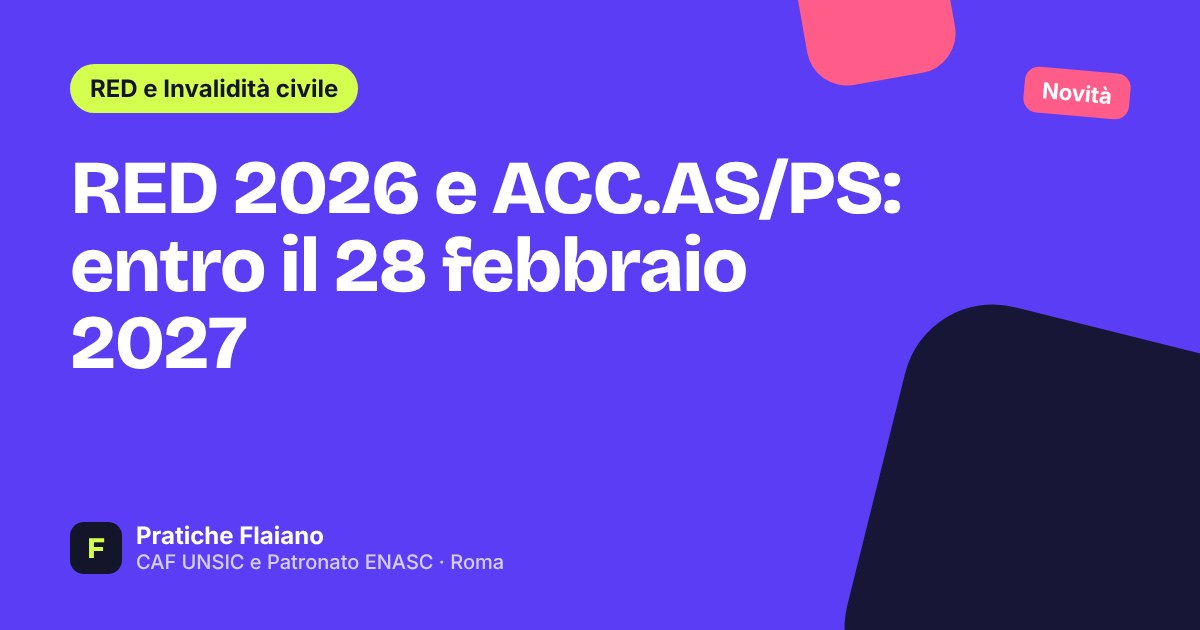
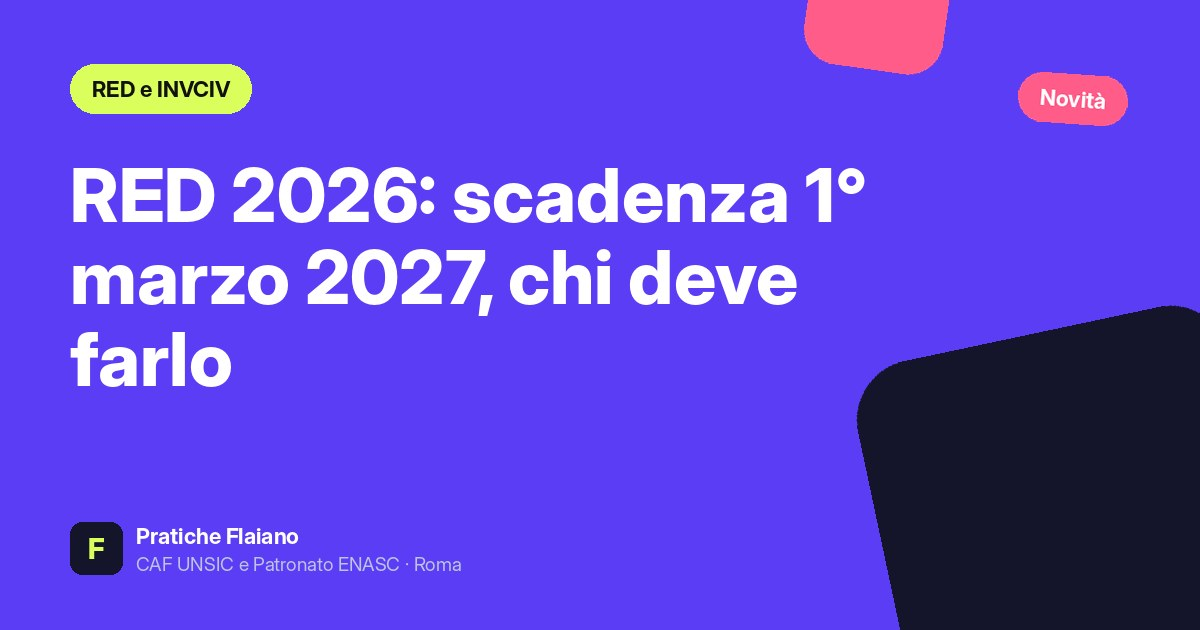
Blog: RED 2026 scadenza 1 marzo 2027 (messaggio INPS 3697), note sulle scadenze passate, correzione EBIT
Claude-Session: https://claude.ai/code/session_0196GTvN5mPCjeJurPh7tVQp

diff --git a/content/red-invciv-accas/2026-11-10-red-2026-scadenza-28-febbraio-2027-messaggio-inps-3568.md b/content/red-invciv-accas/2026-11-10-red-2026-scadenza-28-febbraio-2027-messaggio-inps-3568.md
@@ -1,14 +1,15 @@
 ---
-title: "Modello RED 2026 e dichiarazione ACC.AS/PS: chi deve farli, come ed entro quando (28 febbraio 2027)"
-seo_title: "RED 2026: scadenza 28 febbraio 2027, chi deve farlo"
+title: "Modello RED 2026 e dichiarazione ACC.AS/PS: chi deve farli, come ed entro quando (1° marzo 2027)"
+seo_title: "RED 2026: scadenza 1° marzo 2027, chi deve farlo"
 slug: "red-2026-scadenza-28-febbraio-2027-messaggio-inps-3568"
 date: 2026-11-10
-last_updated: 2026-11-10
+last_updated: 2026-11-13
 category: "red-invciv-accas"
 tags: ["inps", "pensionati", "red", "assegno sociale", "caf", "novita"]
-meta_description: "Messaggio INPS 3568/2026: RED sui redditi 2025 e ACC.AS/PS entro il 28 febbraio 2027. Chi deve farli, documenti, ricoveri e rischi. Ti aiutiamo a Roma."
+meta_description: "Messaggi INPS 3568 e 3697 del 2026: RED sui redditi 2025 e ACC.AS/PS entro il 1° marzo 2027. Chi deve farli, documenti, ricoveri e rischi. Ti aiutiamo a Roma."
 author: "Redazione Centro Pratiche Flaiano"
 sources:
+  - "INPS, Messaggio 12 novembre 2026, n. 3697 (campagna RED ordinaria 2026 sui redditi 2025 e dichiarazioni di responsabilita 2026, scadenza 1 marzo 2027) - https://www.inps.it/it/it/inps-comunica/atti/circolari-messaggi-e-normativa/dettaglio.circolari-e-messaggi.2026.11.messaggio-numero-3697-del-12-11-2026_16418.html"
   - "INPS, Messaggio 3 novembre 2026, n. 3568 - https://www.inps.it/it/it/inps-comunica/atti/circolari-messaggi-e-normativa/dettaglio.circolari-e-messaggi.2026.11.messaggio-numero-3568-del-03-11-2026_16406.html"
   - "INPS, Allegato 1 al messaggio 3568/2026: schema di convenzione con i soggetti abilitati all'assistenza fiscale (deliberazione CdA n. 116 del 15 luglio 2026), artt. 3, 4, 5, 13"
   - "INPS, Allegato 2 al messaggio 3568/2026: Addendum sui compensi (deliberazione CdA n. 162 del 28 ottobre 2026)"
@@ -22,12 +23,14 @@ sources:
 status: published
 type: novita
 image: "/og/red-2026-scadenza-28-febbraio-2027-messaggio-inps-3568.jpg"
-image_alt: "Modello RED 2026: scadenza 28 febbraio 2027"
+image_alt: "Modello RED 2026: scadenza 1 marzo 2027"
 ---
 
-# Modello RED 2026 e dichiarazione ACC.AS/PS: chi deve farli, come ed entro quando (28 febbraio 2027)
+# Modello RED 2026 e dichiarazione ACC.AS/PS: chi deve farli, come ed entro quando (1° marzo 2027)
 
-**Ultimo aggiornamento: 10 novembre 2026**
+**Ultimo aggiornamento: 13 novembre 2026**
+
+**Aggiornamento del 13 novembre 2026:** con il **messaggio INPS n. 3697 del 12 novembre 2026** l'INPS ha indicato come termine della campagna RED ordinaria 2026 (redditi 2025) e delle dichiarazioni di responsabilità 2026 (ACC.AS/PS) il **1° marzo 2027**. Nella prima versione di questo articolo, basata sul messaggio 3568 del 3 novembre, avevamo scritto 28 febbraio 2027: il 28 febbraio 2027 cade di domenica e il nuovo messaggio indica lunedì 1° marzo 2027. Il resto dell'articolo resta valido.
 
 Con il **messaggio n. 3568 del 3 novembre 2026** l'INPS ha fissato le regole delle prossime campagne di verifica: il **modello RED** sui redditi del 2025 e del 2026 e la **dichiarazione di responsabilità ACC.AS/PS** per chi prende l'assegno sociale. Il messaggio riguarda soprattutto i CAF, che possono firmare la convenzione con l'INPS. Dentro però ci sono le date e le regole che servono a te, se prendi una pensione o una prestazione legata al reddito.
 
@@ -35,9 +38,9 @@ Con il **messaggio n. 3568 del 3 novembre 2026** l'INPS ha fissato le regole del
 
 | Cosa | Chi | Entro |
 |---|---|---|
-| **RED 2026** (redditi 2025) | Chi ha prestazioni legate al reddito e non ha dichiarato tutto al Fisco | **28 febbraio 2027** |
-| **ACC.AS/PS 2026** | Chi prende pensione sociale, assegno sociale o assegno sociale sostitutivo dell'invalidità civile | **28 febbraio 2027** |
-| **RED solleciti 2025** (redditi 2024) | Chi non ha risposto alla verifica dell'anno scorso | **28 febbraio 2027** |
+| **RED 2026** (redditi 2025) | Chi ha prestazioni legate al reddito e non ha dichiarato tutto al Fisco | **1° marzo 2027** |
+| **ACC.AS/PS 2026** | Chi prende pensione sociale, assegno sociale o assegno sociale sostitutivo dell'invalidità civile | **1° marzo 2027** |
+| **RED solleciti 2025** (redditi 2024) | Chi non ha risposto alla verifica dell'anno scorso | **28 febbraio 2027** (indicato dal messaggio 3568; nel testo del messaggio 3697 che abbiamo consultato i solleciti non compaiono. Chiedici conferma sulla tua lettera) |
 
 Le prime due campagne sono partite il **1° settembre 2026**; la data di avvio dei solleciti la comunica l'INPS almeno 15 giorni prima.
 
@@ -71,7 +74,7 @@ Le famiglie che nell'ultima verifica avevano **tutti i redditi a zero** sono ind
 
 La dichiarazione di responsabilità **ACC.AS/PS** riguarda solo chi prende la **pensione sociale**, l'**assegno sociale** o l'**assegno sociale sostitutivo dell'invalidità civile**. Serve a confermare che **vivi stabilmente in Italia**, uno dei requisiti per avere queste prestazioni (legge 335/1995, art. 3). Per il tempo in cui il titolare vive all'estero la prestazione non spetta.
 
-Anche questa campagna va dal **1° settembre 2026 al 28 febbraio 2027**.
+Anche questa campagna va dal **1° settembre 2026 al 1° marzo 2027**.
 
 Le dichiarazioni **ICRIC e ICLAV** degli invalidi civili non rientrano in questo messaggio e non si possono presentare tramite CAF: si fanno online o con il Contact Center INPS. Le trovi spiegate nella nostra [guida a RED, ICRIC, ICLAV e ACC.AS/PS](/blog/red-icric-iclav-accas-ps-2026-guida).
 
@@ -170,7 +173,7 @@ Siamo **CAF UNSIC** e **Patronato ENASC** a **Roma Nord**, nel Centro Acquisti F
 
 Siamo **CAF convenzionato con l'INPS** per il RED e l'ACC.AS/PS. Guardiamo insieme a te la lettera dell'INPS, verifichiamo se il RED serve davvero o se i tuoi redditi sono già tutti nel 730, e se serve lo trasmettiamo noi oppure lo facciamo online insieme a te con il tuo SPID o la tua CIE. Se ti è già arrivata una trattenuta o una sospensione, controlliamo come rimettere a posto la posizione.
 
-## Non aspettare febbraio: portaci la lettera INPS
+## Non aspettare l'ultimo giorno: portaci la lettera INPS
 
 - **Prenota:** [in ufficio o in videochiamata](/prenota)
 - **Richiesta online:** [mandaci la lettera INPS](/richiesta)
@@ -179,7 +182,7 @@ Siamo **CAF convenzionato con l'INPS** per il RED e l'ACC.AS/PS. Guardiamo insie
 ## Domande frequenti
 
 **Entro quando va presentato il RED 2026?**
-La campagna ordinaria sui redditi 2025 va dal 1° settembre 2026 al 28 febbraio 2027. Meglio non aspettare l'ultimo giorno: il CAF ha poi fino a 30 giorni per trasmetterlo.
+La campagna ordinaria sui redditi 2025 va dal 1° settembre 2026 al 1° marzo 2027 (messaggio INPS 3697/2026). Meglio non aspettare l'ultimo giorno: il CAF ha poi fino a 30 giorni per trasmetterlo.
 
 **Ho fatto il 730: devo fare anche il RED?**
 No, se tu e i familiari che contano avete dichiarato nel 730 tutti i redditi che servono all'INPS. Se però hai interessi su conti, titoli o buoni postali, redditi esteri o redditi esenti non presenti nel 730, il RED serve.
@@ -194,7 +197,7 @@ Dipende dalla prestazione. Per l'accompagnamento contano i ricoveri gratuiti di 
 La dichiarazione ACC.AS/PS, che conferma che vivi stabilmente in Italia. Se hai anche redditi da comunicare, pure il RED.
 
 **Mi è arrivato un sollecito: cosa faccio?**
-Il sollecito riguarda la verifica dell'anno prima (redditi 2024 per i solleciti 2025). Vanno dichiarati tutti i redditi tuoi e dei familiari richiesti, entro il 28 febbraio 2027. Portaci la lettera e lo facciamo subito.
+Il sollecito riguarda la verifica dell'anno prima (redditi 2024 per i solleciti 2025). Vanno dichiarati tutti i redditi tuoi e dei familiari richiesti, entro la data indicata nella lettera (il messaggio 3568 parlava del 28 febbraio 2027). Portaci la lettera e lo facciamo subito.
 
 **La mia famiglia ha tutti i redditi a zero: posso farlo al CAF?**
 Se l'INPS ti ha inserito tra i nuclei con tutti i redditi a zero nell'ultima verifica, no: la dichiarazione si fa solo online o in una sede INPS. Ti aiutiamo comunque a farla online.

diff --git a/content/red-invciv-accas/2026-11-08-red-icric-iclav-accas-ps-2026-guida.md b/content/red-invciv-accas/2026-11-08-red-icric-iclav-accas-ps-2026-guida.md
@@ -3,7 +3,7 @@ title: "Modello RED, ICRIC, ICLAV e ACC.AS/PS: chi deve farli e cosa rischi se l
 seo_title: "Modello RED, ICRIC, ICLAV e ACC.AS/PS: guida 2026"
 slug: "red-icric-iclav-accas-ps-2026-guida"
 date: 2026-11-08
-last_updated: 2026-11-10
+last_updated: 2026-11-13
 category: "red-invciv-accas"
 tags: ["inps", "pensionati", "disabilita", "patronato", "guida"]
 meta_description: "Campagna RED 2026 sui redditi 2025 e dichiarazioni ICRIC, ICLAV, ACC.AS/PS per invalidi civili: chi deve farle, documenti e rischi. Le inviamo noi a Roma."
@@ -13,6 +13,7 @@ sources:
   - "D.L. 30 dicembre 2008, n. 207, art. 35, comma 10-bis (sospensione e revoca delle prestazioni in caso di mancata comunicazione dei redditi)"
   - "Legge 23 dicembre 1996, n. 662, art. 1, commi 248-249 e 254 (dichiarazioni annuali degli invalidi civili; certificato per disabilità intellettive e psichiche)"
   - "CGIL Roma e Lazio, Pensioni RED: sospensione e scadenza 15 settembre 2026 - https://lazio.cgil.it/2026/08/sospensione-pensioni-red-scadenza-15-settembre-2026/"
+  - "INPS, Messaggio 12 novembre 2026, n. 3697 (scadenza 1 marzo 2027) - https://www.inps.it/it/it/inps-comunica/atti/circolari-messaggi-e-normativa/dettaglio.circolari-e-messaggi.2026.11.messaggio-numero-3697-del-12-11-2026_16418.html"
   - "INPS, Messaggio 3 novembre 2026, n. 3568 e convenzione allegata (campagne RED e DICH. RESP. 2026-2027)"
   - "HandyLex, Le dichiarazioni periodiche per gli invalidi civili - https://handylex.org/le-dichiarazioni-periodiche-per-gli-invalidi-civili/"
 status: published
@@ -23,7 +24,7 @@ image_alt: "Modello RED, ICRIC, ICLAV e ACC.AS/PS"
 
 # Modello RED, ICRIC, ICLAV e ACC.AS/PS: chi deve farli e cosa rischi se li salti
 
-**Ultimo aggiornamento: 10 novembre 2026**
+**Ultimo aggiornamento: 13 novembre 2026**
 
 Se prendi una **pensione legata al reddito** (integrazione al minimo, maggiorazioni, quattordicesima, assegno sociale, pensione ai superstiti) o una **prestazione di invalidità civile**, ogni anno l'INPS può chiederti di confermare i tuoi redditi e la tua situazione. Lo fai con il **modello RED** e, per gli invalidi civili, con le dichiarazioni **ICRIC, ICLAV e ACC.AS/PS**.
 
@@ -47,7 +48,7 @@ L'INPS ha avviato la **Campagna RED 2026**, che riguarda i **redditi del 2025** 
 - **non serve** il RED se tu e i tuoi familiari avete già dichiarato **tutti** i redditi nel **730** o nel **modello Redditi**;
 - vanno dichiarati soprattutto i redditi che **non passano dal 730**: interessi di conti, titoli di Stato e buoni postali, redditi da lavoro all'estero, alcuni redditi esenti.
 
-La campagna va dal **1° settembre 2026 al 28 febbraio 2027** (messaggio INPS 3568/2026, [qui tutti i dettagli](/blog/red-2026-scadenza-28-febbraio-2027-messaggio-inps-3568)). Ti conviene muoverti presto: se l'INPS ti ha già scritto, la richiesta la trovi anche nella tua area **MyINPS**.
+La campagna va dal **1° settembre 2026 al 1° marzo 2027** (messaggi INPS 3568 del 3 novembre e 3697 del 12 novembre 2026, [qui tutti i dettagli](/blog/red-2026-scadenza-28-febbraio-2027-messaggio-inps-3568)). Ti conviene muoverti presto: se l'INPS ti ha già scritto, la richiesta la trovi anche nella tua area **MyINPS**.
 
 ### Cosa succede se non rispondi: l'esempio dei redditi 2022
 
@@ -67,7 +68,7 @@ Riguarda chi prende l'**assegno mensile di invalidità** (invalidità parziale).
 
 ### ACC.AS/PS: assegno e pensione sociale
 
-Riguarda chi prende la **pensione sociale**, l'**assegno sociale** o l'**assegno sociale sostitutivo dell'invalidità civile** (quello che arriva dopo i 67 anni al posto della prestazione di invalidità). Serve a confermare che **vivi stabilmente in Italia**. La campagna 2026 va dal **1° settembre 2026 al 28 febbraio 2027** (messaggio INPS 3568/2026).
+Riguarda chi prende la **pensione sociale**, l'**assegno sociale** o l'**assegno sociale sostitutivo dell'invalidità civile** (quello che arriva dopo i 67 anni al posto della prestazione di invalidità). Serve a confermare che **vivi stabilmente in Italia**. La campagna 2026 va dal **1° settembre 2026 al 1° marzo 2027** (messaggi INPS 3568/2026 e 3697/2026).
 
 ### Chi non deve presentarle
 
@@ -125,7 +126,7 @@ Sì, online sul sito INPS con SPID, CIE o CNS. Se preferisci, RED e ACC.AS/PS li
 ## Articoli correlati
 
 - [Invalidità civile e Legge 104: come funziona da noi](/invalidita-104)
-- [RED 2026: scadenza 28 febbraio 2027 e cosa dice il messaggio INPS 3568](/blog/red-2026-scadenza-28-febbraio-2027-messaggio-inps-3568)
+- [RED 2026: scadenza 1° marzo 2027 e cosa dicono i messaggi INPS 3568 e 3697](/blog/red-2026-scadenza-28-febbraio-2027-messaggio-inps-3568)
 - [Servizi di patronato](/servizi/patronato)
 - [ISEE 2027: quando rinnovarlo e documenti](/blog/isee-2027-documenti-quando-rinnovare-roma)
 

diff --git a/content/bonus-fiscali/2026-11-13-ebit-lazio-welfare-2026-rimborsi-libri-tasse-universitarie-trasporti.md b/content/bonus-fiscali/2026-11-13-ebit-lazio-welfare-2026-rimborsi-libri-tasse-universitarie-trasporti.md
@@ -143,7 +143,7 @@ I file vanno caricati **in PDF e leggibili**. Se EBIT chiede integrazioni, hai *
 
 - La domanda si invia **solo online**, dall'area riservata di ebitlazio.it. Non si mandano documenti per email.
 - Il rimborso arriva di norma **entro 40 giorni** dalla scadenza (60 giorni per cultura, spese funerarie e malattia).
-- Il rimborso è **soggetto a IRPEF**: EBIT Lazio lo aumenta della ritenuta calcolata con l'aliquota del primo scaglione.
+- Il rimborso di **libri e tasse universitarie** è **soggetto a IRPEF**: EBIT Lazio lo aumenta della ritenuta calcolata con l'aliquota del primo scaglione, trattiene l'imposta e rilascia la Certificazione Unica. Per le altre prestazioni controlla il regolamento.
 
 ## Come ti aiuta il Centro Pratiche Flaiano
 
@@ -180,7 +180,7 @@ Entro 30 giorni dall'ultimo pagamento e comunque non oltre il 31 ottobre. Per il
 Non è obbligatorio, ma se i fondi non bastano viene pagato prima chi ha l'ISEE più basso. Senza ISEE si passa in fondo.
 
 **Il rimborso è tassato?**
-Sì, è soggetto a IRPEF. EBIT Lazio aggiunge al rimborso la ritenuta calcolata con l'aliquota del primo scaglione.
+Per libri e tasse universitarie sì: è soggetto a IRPEF, ed EBIT Lazio aggiunge al rimborso la ritenuta calcolata con l'aliquota del primo scaglione. Per le altre prestazioni controlla il regolamento.
 
 ## Articoli correlati
 

diff --git a/content/assegno-unico/2026-04-29-assegno-unico-2026-importi-tabella-isee.md b/content/assegno-unico/2026-04-29-assegno-unico-2026-importi-tabella-isee.md
@@ -26,6 +26,8 @@ image_alt: "Illustrazione editoriale: pattern bar-chart astratto in toni di blu 
 
 **Ultimo aggiornamento: 29 aprile 2026**
 
+**Nota (13 novembre 2026):** la scadenza del 30 giugno 2026 per avere gli arretrati da marzo è passata. Per il rinnovo dell'ISEE e le date del 2027 leggi la [guida all'Assegno unico 2027](/blog/assegno-unico-2027-rinnovo-isee-scadenze).
+
 L'**Assegno Unico Universale (AUU)** e dal 2022 la principale prestazione INPS a sostegno delle famiglie con figli a carico. Nel **2026** gli importi sono stati **rivalutati del +1,4%** in base all'inflazione ISTAT 2025 (Circolare INPS n. 7 del 30 gennaio 2026). Questa guida completa del **Centro Pratiche Flaiano** (CAF UNSIC + Patronato ENASC con sede a Roma Vigne Nuove) ti spiega quanto spetta in base al tuo **ISEE 2026**, quali maggiorazioni hai diritto a chiedere e cosa cambia per figli maggiorenni e con disabilita.
 
 ## Importo base per figlio minorenne 2026

diff --git a/content/detrazioni-deduzioni/2026-04-30-detrazioni-spese-mediche-730-2026-guida-completa.md b/content/detrazioni-deduzioni/2026-04-30-detrazioni-spese-mediche-730-2026-guida-completa.md
@@ -24,6 +24,8 @@ image_alt: "Illustrazione editoriale: scontrini farmacia, croce sanitaria stiliz
 
 **Ultimo aggiornamento: 30 aprile 2026**
 
+**Nota (13 novembre 2026):** le scadenze per presentare il 730/2026 (30 settembre 2026) e il modello Redditi PF (2 novembre 2026) sono passate. Se non hai ancora dichiarato le spese mediche del 2025, [contattaci](/730): vediamo insieme come regolarizzare.
+
 Ogni primavera in CAF arrivano famiglie del Municipio III con la **busta delle ricevute mediche** dell'anno: scontrini della farmacia, fatture del dentista, ricevute della fisioterapia. La domanda e sempre la stessa: "Cosa posso scaricare?". In questa guida mettiamo in fila le regole pratiche per il **modello 730/2026 (redditi 2025)**: la franchigia, l'obbligo di pagamento tracciabile, lo scontrino parlante, dove si indicano le spese e quando conviene rateizzare.
 
 ## Panoramica

diff --git a/content/imu-tributi-locali/2026-04-14-rottamazione-quinquies-2026.md b/content/imu-tributi-locali/2026-04-14-rottamazione-quinquies-2026.md
@@ -237,6 +237,8 @@ URL slug consigliato per il CMS: /rottamazione-quinquies-2026
 
 **Ultimo aggiornamento: 14 aprile 2026**
 
+**Nota (13 novembre 2026):** la scadenza del 30 aprile 2026 per presentare la domanda di adesione è passata. Per capire a che punto è la tua posizione, [vai alla pagina cartelle e rateizzazioni](/cartelle-rateizzazione) o contattaci.
+
 Ha cartelle esattoriali pendenti e vorrebbe chiudere i conti con il Fisco pagando meno di quanto dovuto? La **Rottamazione Quinquies**, introdotta dalla Legge di Bilancio 2026 (Legge n. 199/2025, art. 1, commi 82-101), offre la possibilita di estinguere i debiti iscritti a ruolo **senza pagare sanzioni, interessi di mora e aggio**. In questa guida Le spieghiamo tutto quello che serve sapere per aderire entro la scadenza del **30 aprile 2026**.
 
 ## Cos'e la Rottamazione Quinquies 2026 e come funziona

diff --git a/content/730-redditi/2026-04-13-guida-730-2026.md b/content/730-redditi/2026-04-13-guida-730-2026.md
@@ -183,6 +183,8 @@ INTERVENTI APPLICATI:
 
 **Ultimo aggiornamento: 13 aprile 2026**
 
+**Nota (13 novembre 2026):** le scadenze del 730/2026 (30 settembre 2026) e del modello Redditi Persone Fisiche (2 novembre 2026) sono passate. Se non hai ancora presentato la dichiarazione dei redditi 2025, [contattaci](/730): vediamo insieme come regolarizzare.
+
 Ogni anno, milioni di lavoratori dipendenti e pensionati si trovano davanti alla stessa domanda: quali documenti servono per il **730**? Quando scade? Conviene il precompilato o e meglio rivolgersi a un CAF? In questa guida — redatta dal nostro **CAF UNSIC a Roma** — troverà tutte le risposte aggiornate al **Modello 730/2026**, con le **scadenze ufficiali**, le novità fiscali dell'anno e la lista completa dei **documenti da preparare**.
 
 ## Cos'e il Modello 730 e a chi si rivolge

diff --git a/content/bonus-fiscali/2026-04-30-bonus-dopo-diploma-2026-agevolazioni-neodiplomati.md b/content/bonus-fiscali/2026-04-30-bonus-dopo-diploma-2026-agevolazioni-neodiplomati.md
@@ -26,6 +26,8 @@ image_alt: "Illustrazione editoriale: cappello da diploma con coccarda, libri un
 
 **Ultimo aggiornamento: 30 aprile 2026**
 
+**Nota (13 novembre 2026):** alcune scadenze di questo articolo (per esempio quelle di giugno e luglio 2026) sono passate. Per sapere cosa è ancora aperto, [contattaci](/isee).
+
 Subito dopo l'esame di maturita molte famiglie del Municipio III ci chiedono quali aiuti economici possono richiedere per il figlio neodiplomato: che si iscriva all'universita, scelga un ITS Academy o cerchi lavoro, esistono nel 2026 diverse misure pubbliche cumulabili. In questa guida mettiamo in fila **10 bonus reali** con i requisiti aggiornati, le scadenze e le voci dove serve l'ISEE - che il CAF rilascia gratuitamente alla prima presentazione.
 
 ## Panoramica

diff --git a/content/isee-dsu/2026-04-29-isee-2026-dsu-30-giugno-arretrati-assegno-unico.md b/content/isee-dsu/2026-04-29-isee-2026-dsu-30-giugno-arretrati-assegno-unico.md
@@ -31,6 +31,8 @@ fact_check_result: "PUBBLICABILE CON CORREZIONI - Corretti importi maggiorazioni
 
 **Ultimo aggiornamento: 29 aprile 2026**
 
+**Nota (13 novembre 2026):** la scadenza del 30 giugno 2026 per avere gli arretrati dell'Assegno unico da marzo è passata. L'ISEE 2026 vale fino al 31 dicembre 2026: per il rinnovo leggi la [guida all'ISEE 2027](/blog/isee-2027-documenti-quando-rinnovare-roma) e la [guida all'Assegno unico 2027](/blog/assegno-unico-2027-rinnovo-isee-scadenze).
+
 **SCADENZA: 30 giugno 2026 - termine per presentare la DSU 2026 con diritto agli arretrati AUU da marzo**
 *(Fonte: D.Lgs. 230/2021 art. 6 e Circolare INPS n. 7 del 30 gennaio 2026)*
 

diff --git a/content/730-redditi/2026-04-28-precompilata-2026-30-aprile-14-maggio.md b/content/730-redditi/2026-04-28-precompilata-2026-30-aprile-14-maggio.md
@@ -24,6 +24,8 @@ image_alt: "Illustrazione editoriale del 730 Precompilato 2026: documenti fiscal
 
 **Ultimo aggiornamento: 28 aprile 2026**
 
+**Nota (13 novembre 2026):** le scadenze di questo articolo sono passate: il 730/2026 si poteva inviare fino al 30 settembre 2026 e il modello Redditi PF fino al 2 novembre 2026. Se non hai ancora presentato la dichiarazione dei redditi 2025, [contattaci](/730): vediamo insieme come regolarizzare.
+
 **SCADENZA: 30 settembre 2026 - termine ultimo invio Modello 730/2026 precompilato**
 *(Fonte: Comunicato stampa Agenzia delle Entrate del 28 aprile 2026 e Istruzioni Modello 730/2026)*
 

diff --git a/content/imu-tributi-locali/2026-04-29-imu-acconto-16-giugno-2026.md b/content/imu-tributi-locali/2026-04-29-imu-acconto-16-giugno-2026.md
@@ -27,6 +27,8 @@ image_alt: "Illustrazione editoriale: facciata stilizzata di un edificio italian
 
 **Ultimo aggiornamento: 8 novembre 2026** (corrette le aliquote di Roma)
 
+**Nota (13 novembre 2026):** la scadenza del 16 giugno 2026 per l'acconto IMU è passata. Se non hai pagato, il ravvedimento operoso si può ancora valutare: [contattaci](/imu-tari). Il prossimo versamento è il saldo del 16 dicembre 2026: leggi la [guida all'IMU saldo a Roma](/blog/imu-saldo-16-dicembre-2026-roma).
+
 **SCADENZA: 16 giugno 2026 - acconto IMU 2026 (50% dell'imposta annuale)**
 *(Fonte: D.Lgs. 504/1992 e L. 160/2019)*
 

diff --git a/content/pensioni/2026-11-10-cedolino-pensione-novembre-dicembre-2026-come-leggerlo.md b/content/pensioni/2026-11-10-cedolino-pensione-novembre-dicembre-2026-come-leggerlo.md
@@ -142,7 +142,7 @@ Serve un'identità digitale (SPID, CIE o CNS). In ufficio ti aiutiamo a leggerlo
 ## Articoli correlati
 
 - [APE sociale 2026: ultima scadenza il 30 novembre](/blog/ape-sociale-2026-ultima-scadenza-30-novembre)
-- [Modello RED 2026: scadenza 28 febbraio 2027](/blog/red-2026-scadenza-28-febbraio-2027-messaggio-inps-3568)
+- [Modello RED 2026: scadenza 1° marzo 2027](/blog/red-2026-scadenza-28-febbraio-2027-messaggio-inps-3568)
 - [RED, ICRIC, ICLAV e ACC.AS/PS: chi deve farli](/blog/red-icric-iclav-accas-ps-2026-guida)
 
 ---
